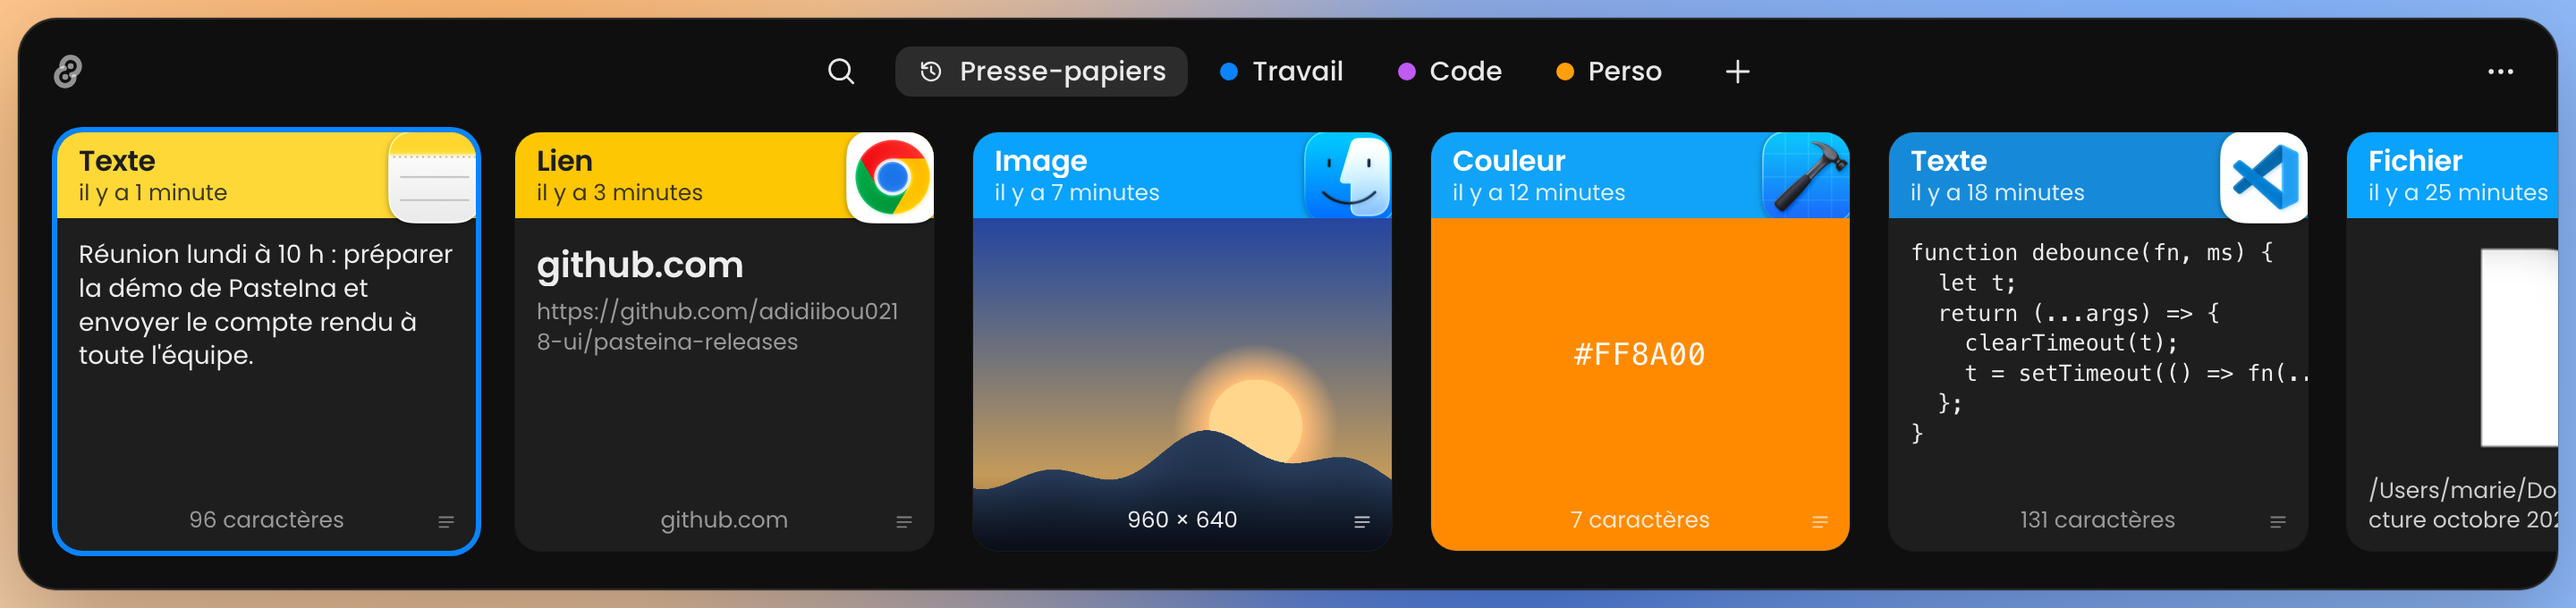
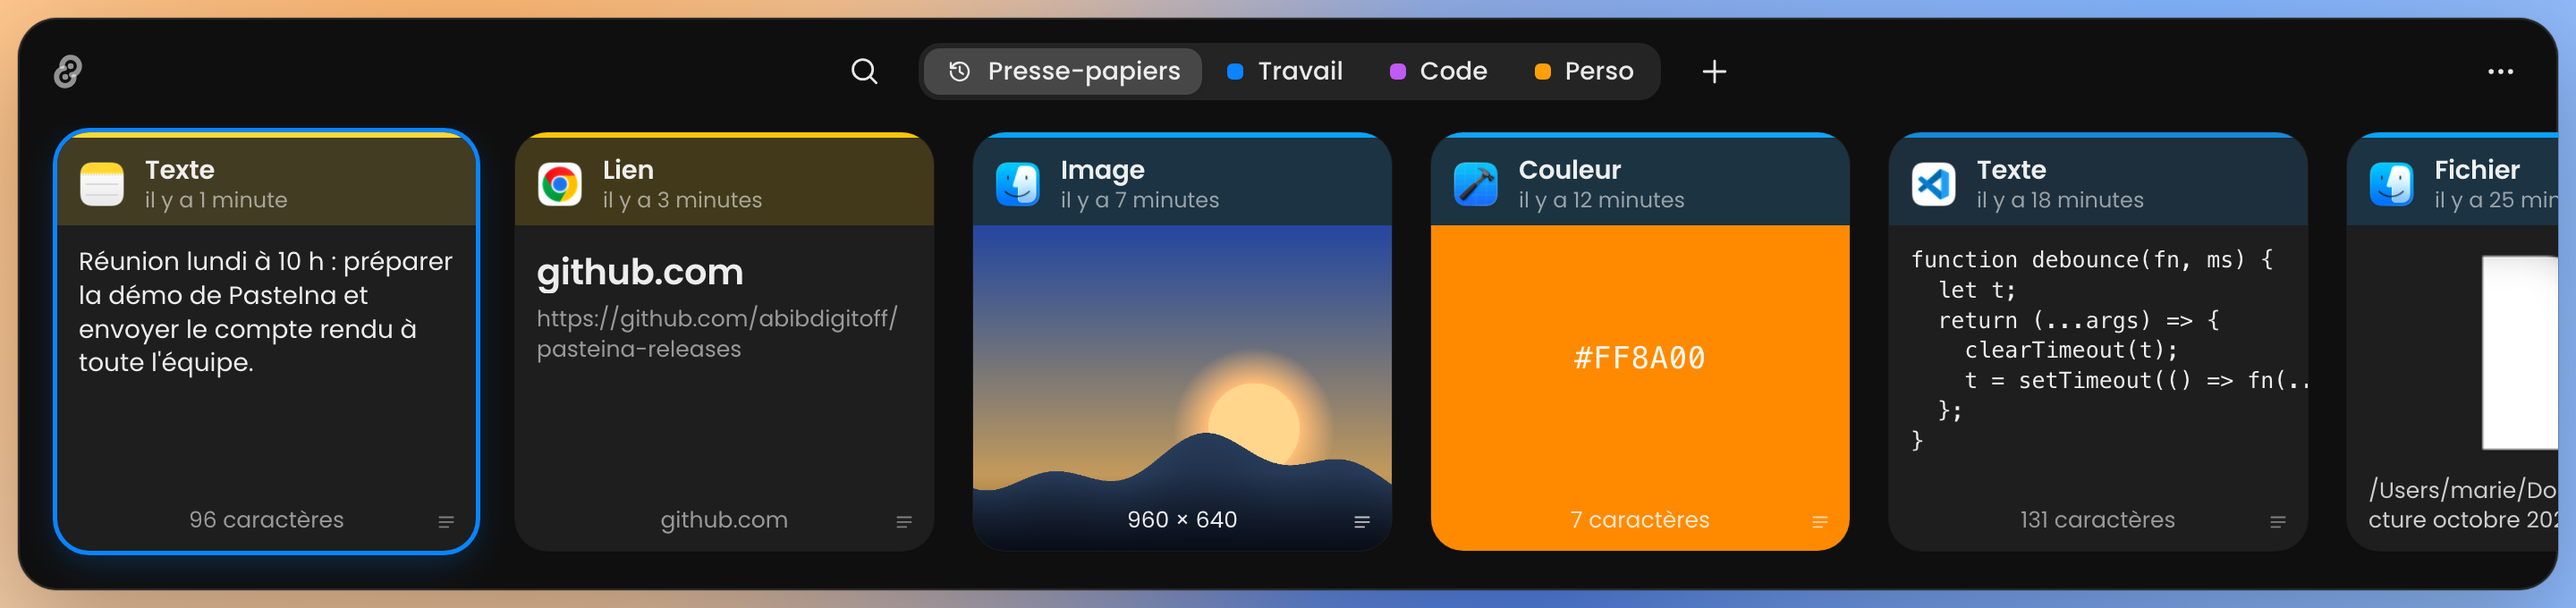
Nouveau design et page mise à jour

diff --git a/README.md b/README.md
@@ -113,20 +113,15 @@ Clic droit sur une carte : ranger dans une collection, supprimer… Clic droit s
 
 Les détails sont dans la [politique de confidentialité](PRIVACY.md).
 
-## PasteIna ou Paste ?
+## Léger et rapide
 
-[Paste](https://pasteapp.io) est une excellente app, plus complète, et payante par abonnement. PasteIna en reprend l'essentiel, gratuitement, avec une app beaucoup plus légère.
-
-| | Paste | PasteIna |
-| --- | --- | --- |
-| Prix | Abonnement | **Gratuit** |
-| Taille de l'app | 33 Mo | **6,6 Mo** (DMG : 3,2 Mo) |
-| Mémoire utilisée | ~330 Mo | **~75 Mo** |
-| Synchronisation iCloud | Oui | Non |
-| App iPhone / iPad | Oui | Non |
-| Données | Locales + iCloud (si activé) | **Uniquement locales** |
-
-Mesures réalisées le 27 octobre 2026 sur un Mac Apple Silicon. Méthode et détails dans le [comparatif complet](docs/COMPARATIF.md).
+| | PasteIna |
+| --- | --- |
+| Prix | **Gratuit** |
+| Taille de l'app | **6,6 Mo** |
+| Mémoire utilisée | **~75 Mo** |
+| Recherche dans 10 000 éléments | **moins de 5 ms** |
+| Données | **Uniquement sur votre Mac** |
 
 ## Questions fréquentes
 
@@ -197,11 +192,10 @@ Ouvrez un [ticket sur GitHub](https://github.com/abibdigitoff/pasteina-releases/
 - [Nouveautés (CHANGELOG)](CHANGELOG.md)
 - [Politique de confidentialité](PRIVACY.md)
 - [Licence](LICENSE)
-- [Comparatif avec Paste](docs/COMPARATIF.md)
 - [Signaler un problème](https://github.com/abibdigitoff/pasteina-releases/issues)
 
 ---
 
 <div align="center">
-<sub>© 2026 ABIB DIGIT · PasteIna n'est pas affilié à Paste ni à ses éditeurs.</sub>
+<sub>© 2026 ABIB DIGIT</sub>
 </div>

diff --git a/CHANGELOG.md b/CHANGELOG.md
@@ -6,9 +6,12 @@ Le format suit [Keep a Changelog](https://keepachangelog.com/fr/1.1.0/) et les n
 
 Les versions 0.1 à 0.4 sont des versions de développement internes : elles n'ont pas été publiées.
 
-## [1.0.1] – 2026-10-28
+## [1.1.0] – 2026-10-28
 
 ### Modifié
+- Nouveau design des cartes : icône de l'app à gauche, en-tête légèrement teinté, liseré de couleur, coins plus arrondis.
+- Onglets des collections regroupés dans une barre unique, plus lisible.
+- Réglages, écran de bienvenue et aperçu harmonisés avec ce nouveau style.
 - Les téléchargements et les mises à jour sont désormais publiés sur le compte GitHub abibdigitoff.
 
 ## [1.0.0] – 2026-10-28
@@ -83,7 +86,7 @@ Première version qui fonctionne de bout en bout.
 - Pause de la capture, apps ignorées, contenus confidentiels et temporaires ignorés.
 - Logo et icône dans la barre des menus.
 
-[1.0.1]: https://github.com/abibdigitoff/pasteina-releases/releases/tag/v1.0.1
+[1.1.0]: https://github.com/abibdigitoff/pasteina-releases/releases/tag/v1.1.0
 [1.0.0]: https://github.com/abibdigitoff/pasteina-releases/releases/tag/v1.0.0
 [0.9.0]: https://github.com/abibdigitoff/pasteina-releases/releases/tag/v0.9.0
 [0.4.0]: https://github.com/abibdigitoff/pasteina-releases/releases
